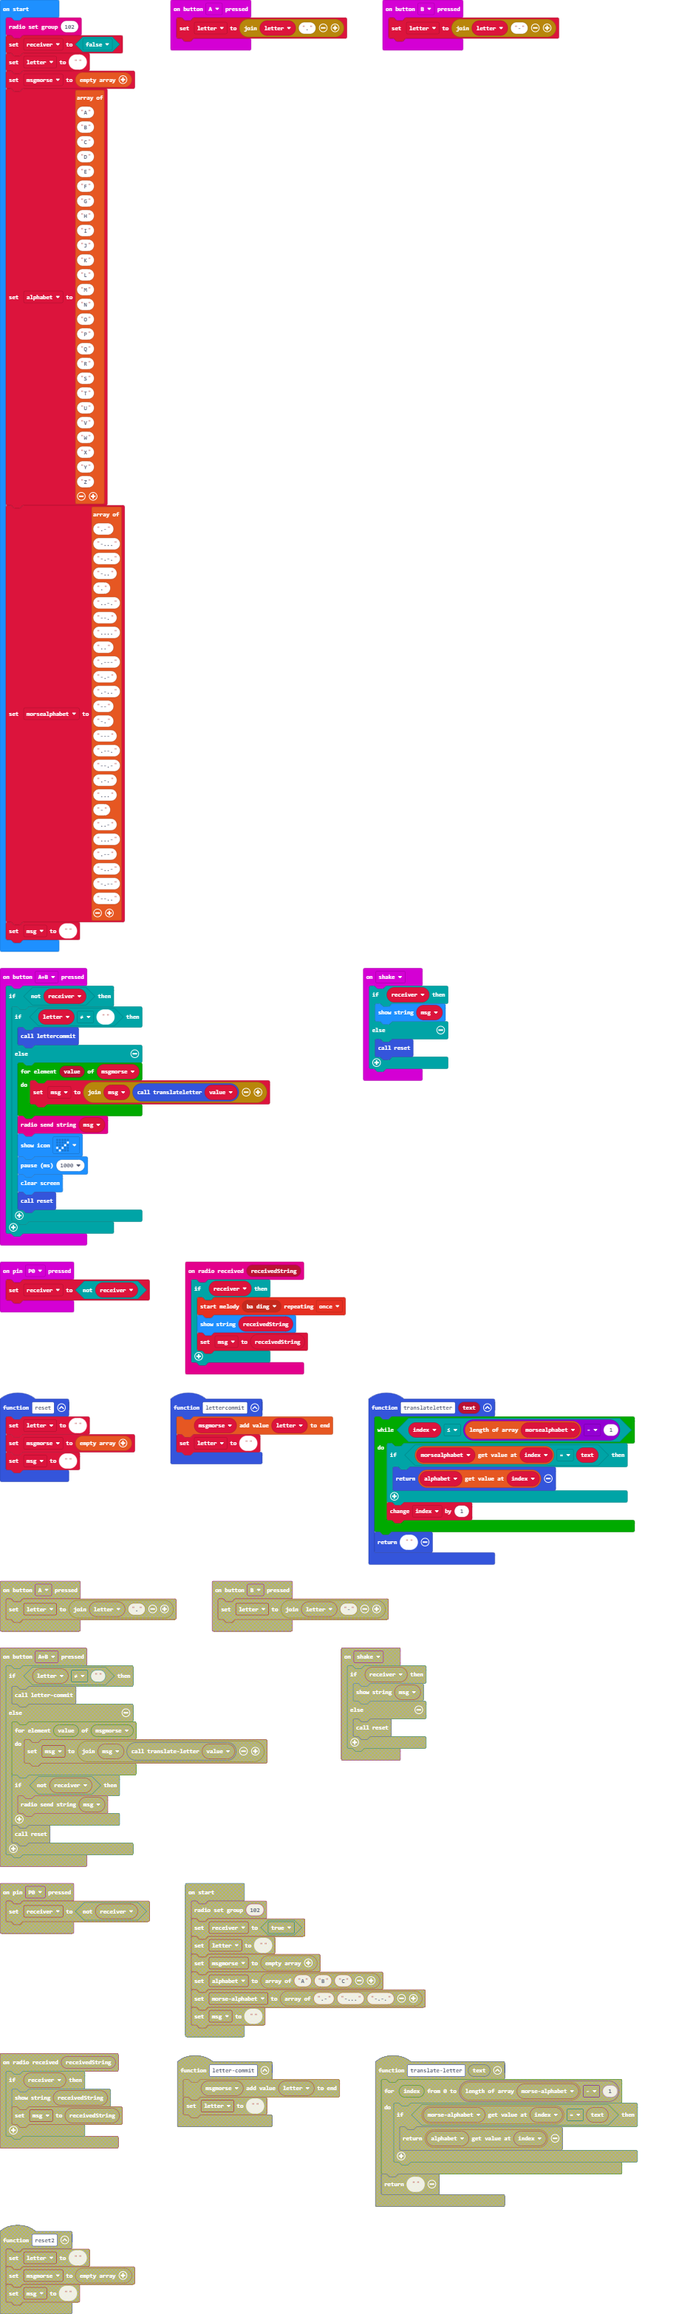
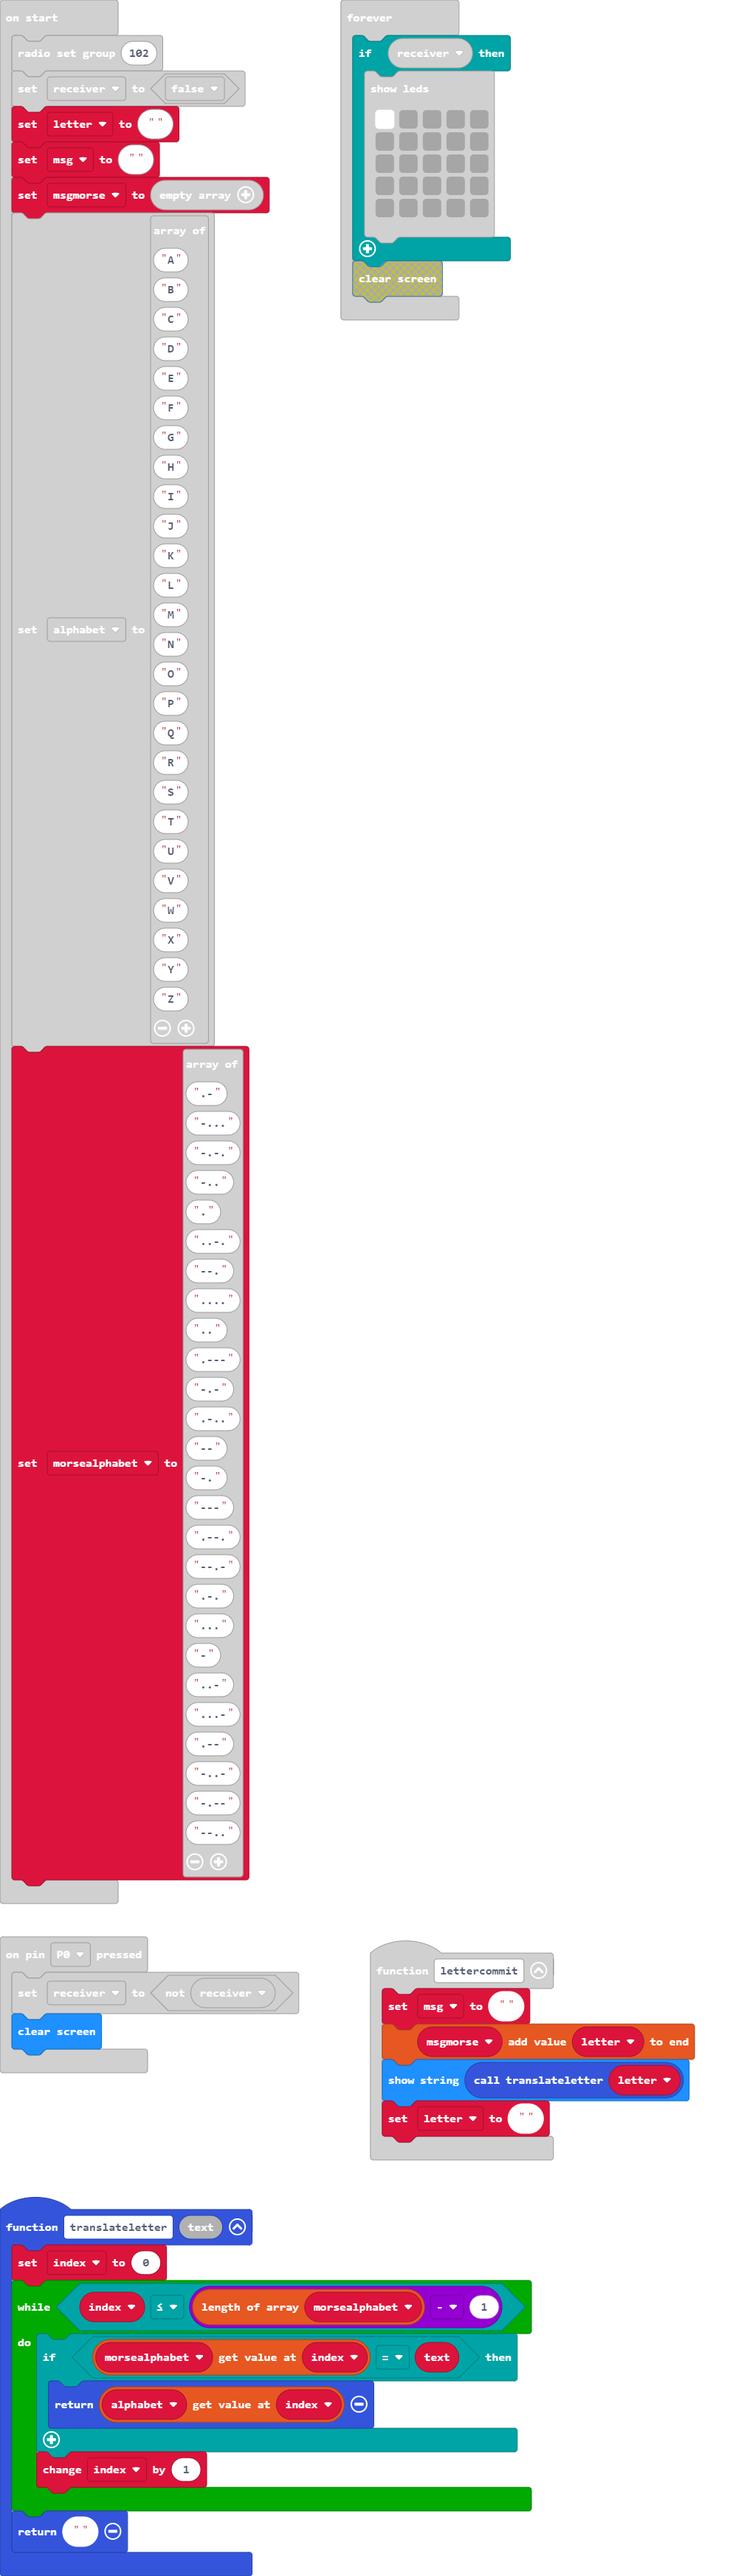
Update main.blocks, main.ts, main.py

diff --git a/main.ts b/main.ts
@@ -1,10 +1,12 @@
 input.onPinPressed(TouchPin.P0, function () {
     receiver = !(receiver)
+    basic.clearScreen()
 })
 input.onButtonPressed(Button.A, function () {
     letter = "" + letter + "."
 })
 function translateletter (text: string) {
+    index = 0
     while (index <= morsealphabet.length - 1) {
         if (morsealphabet[index] == text) {
             return alphabet[index]
@@ -21,7 +23,7 @@ input.onButtonPressed(Button.AB, function () {
             for (let value of msgmorse) {
                 msg = "" + msg + translateletter(value)
             }
-            radio.sendString("" + (msg))
+            radio.sendString(msg)
             basic.showIcon(IconNames.Yes)
             basic.pause(1000)
             basic.clearScreen()
@@ -41,7 +43,7 @@ input.onButtonPressed(Button.B, function () {
 })
 input.onGesture(Gesture.Shake, function () {
     if (receiver) {
-        basic.showString("" + (msg))
+        basic.showString(msg)
     } else {
         reset()
     }
@@ -52,19 +54,22 @@ function reset () {
     msg = ""
 }
 function lettercommit () {
+    msg = ""
     msgmorse.push(letter)
+    basic.showString("" + (translateletter(letter)))
     letter = ""
 }
 let index = 0
-let msg = ""
 let morsealphabet: string[] = []
 let alphabet: string[] = []
 let msgmorse: string[] = []
+let msg = ""
 let letter = ""
 let receiver = false
 radio.setGroup(102)
 receiver = false
 letter = ""
+msg = ""
 msgmorse = []
 alphabet = [
 "A",
@@ -122,7 +127,6 @@ morsealphabet = [
 "-.--",
 "--.."
 ]
-msg = ""
 basic.forever(function () {
     if (receiver) {
         basic.showLeds(`
@@ -132,7 +136,5 @@ basic.forever(function () {
             . . . . .
             . . . . .
             `)
-    } else {
-        basic.clearScreen()
     }
 })

diff --git a/main.py b/main.py
@@ -1,6 +1,7 @@
 def on_pin_pressed_p0():
     global receiver
     receiver = not (receiver)
+    basic.clear_screen()
 input.on_pin_pressed(TouchPin.P0, on_pin_pressed_p0)
 
 def on_button_pressed_a():
@@ -24,7 +25,7 @@ def on_button_pressed_ab():
         else:
             for value in msgmorse:
                 msg = "" + msg + translateletter(value)
-            radio.send_string("" + (msg))
+            radio.send_string(msg)
             basic.show_icon(IconNames.YES)
             basic.pause(1000)
             basic.clear_screen()
@@ -46,7 +47,7 @@ input.on_button_pressed(Button.B, on_button_pressed_b)
 
 def on_gesture_shake():
     if receiver:
-        basic.show_string("" + (msg))
+        basic.show_string(msg)
     else:
         reset()
 input.on_gesture(Gesture.SHAKE, on_gesture_shake)
@@ -59,6 +60,7 @@ def reset():
 def lettercommit():
     global letter
     msgmorse.append(letter)
+    basic.show_string("" + (translateletter(letter)))
     letter = ""
 index = 0
 msg = ""
@@ -134,6 +136,4 @@ def on_forever():
                         . . . . .
                         . . . . .
         """)
-    else:
-        basic.clear_screen()
 basic.forever(on_forever)
